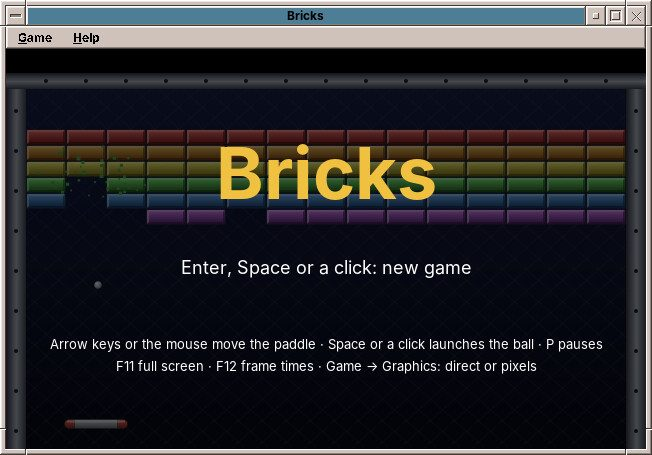
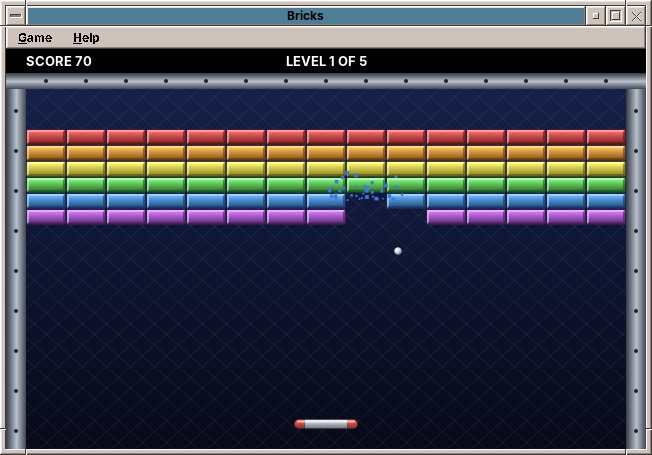
www.amadeos.eu: in-game screenshots for the games, System page
The Games page shows the screenshots of the games' AppStream metadata,
taken during play, instead of the title screens. The new page System
describes what amadeos-system adds to Debian: the desktop packages, every
Settings page, the dialogs of the system and the JNA bindings.

Claude-Session: https://claude.ai/code/session_0189sjNqWnc8okgJQiVfxjrz

diff --git a/www.amadeos.eu/system.html b/www.amadeos.eu/system.html
@@ -1,0 +1,165 @@
+<!doctype html>
+<html lang="en">
+<head>
+  <meta charset="utf-8">
+  <meta name="viewport" content="width=device-width, initial-scale=1">
+  <title>What amadeOS adds to Debian · amadeOS</title>
+  <meta name="description" content="amadeos-system: the display manager, session, window manager, Front Panel, Settings and system tools that amadeOS adds on top of Debian, and how Java talks to Linux and X11 through JNA.">
+  <link rel="icon" href="/assets/images/logo.svg" type="image/svg+xml">
+  <link rel="stylesheet" href="/assets/css/amadeos.css">
+</head>
+<body>
+  <div class="htmx-fragment" hx-get="/includes/header.html" hx-trigger="load" hx-swap="outerHTML">
+    <noscript><a href="/index.html">amadeOS</a> · <a href="/why.html">Why</a> · <a href="/desktop.html">Desktop</a> · <a href="/system.html">System</a> · <a href="/applications.html">Applications</a> · <a href="/games.html">Games</a> · <a href="/download.html">Download</a> · <a href="/handbooks.html">Handbooks</a> · <a href="/contribute.html">Take part</a></noscript>
+  </div>
+<main>
+<div class="page-head"><div class="wrap"><h1>What amadeOS adds to Debian</h1><p>Debian brings the kernel, the drivers, the X server, systemd and thousands of programs. amadeOS adds the desktop on top: ten packages from the repository amadeos-system, all written in Java.</p></div></div>
+<section>
+  <div class="wrap">
+    <h2>Debian underneath, amadeOS on top</h2>
+    <p class="intro">amadeOS does not replace any part of Debian. Its packages are ordinary Debian packages that use
+      Debian's services: PAM to log in, logind for the session, polkit for administrator rights, NetworkManager, CUPS
+      and apt.</p>
+    <div class="two">
+      <div>
+        <h3>From Debian 13</h3>
+        <table>
+          <tr><td>Linux kernel, firmware and drivers</td></tr>
+          <tr><td>Xorg (X11), Mesa, fonts</td></tr>
+          <tr><td>systemd, logind, PAM, polkit</td></tr>
+          <tr><td>NetworkManager, CUPS, PipeWire</td></tr>
+          <tr><td>apt, dpkg, AppStream, unattended-upgrades</td></tr>
+          <tr><td>OpenJDK 25, GRUB, live-boot</td></tr>
+          <tr><td>Firefox ESR, LibreOffice and the whole Debian archive</td></tr>
+        </table>
+      </div>
+      <div>
+        <h3>From amadeos-system</h3>
+        <table>
+          <tr><th>Package</th><th>What it is</th></tr>
+          <tr><td><code>amadeos-dm</code></td><td>Display manager and login screen</td></tr>
+          <tr><td><code>amadeos-session</code></td><td>Session, screen lock, screen saver, polkit agent, clipboard manager</td></tr>
+          <tr><td><code>amadeos-wm</code></td><td>Window manager with Motif frames and four workspaces</td></tr>
+          <tr><td><code>amadeos-panel-cde</code></td><td>The Front Panel with its drawers</td></tr>
+          <tr><td><code>amadeos-settings</code></td><td>Settings, formerly the Style Manager</td></tr>
+          <tr><td><code>amadeos-software</code></td><td>Software: install, update and remove programs</td></tr>
+          <tr><td><code>amadeos-packages</code></td><td>The administrator helper behind updates and Software</td></tr>
+          <tr><td><code>amadeos-print</code></td><td>Print Manager</td></tr>
+          <tr><td><code>amadeos-logviewer</code></td><td>Session Diagnostics &amp; Logs</td></tr>
+          <tr><td><code>amadeos-sysinfo</code></td><td>System Information</td></tr>
+        </table>
+      </div>
+    </div>
+  </div>
+</section>
+
+<section class="alt">
+  <div class="wrap">
+    <h2>From power-on to the desktop</h2>
+    <div class="cards">
+      <div class="card bevel"><h3>Display manager</h3><p>A systemd service starts Xorg and the login screen. It
+        checks the password through PAM in a separate root process, opens a logind session and starts the desktop
+        as the user, in the language, keyboard layout and time zone chosen on the login screen.</p></div>
+      <div class="card bevel"><h3>Session</h3><p>Starts the window manager and restarts it if it fails, runs the
+        start-up scripts and your own programs, then the Front Panel. Programs started from the panel each write a
+        log of their own.</p></div>
+      <div class="card bevel"><h3>Window manager</h3><p>A floating, reparenting X11 window manager: Motif frames with
+        the CDE window menu, move and resize, minimise to desktop icons, four workspaces, the workspace menu, and the
+        ICCCM and EWMH standards, so programs not written in Java work as well.</p></div>
+      <div class="card bevel"><h3>Front Panel</h3><p>Clock, calendar, workspace switch, lock and language buttons,
+        network and updates cells, and drawers that fill themselves from the installed programs' desktop entries
+        and follow every install.</p></div>
+      <div class="card bevel"><h3>Lock and screen saver</h3><p>The screen saver uses the X server's idle time, shows a
+        module (Qix, Swarm, Starfield, Floating Logo) and locks the screen. The lock grabs keyboard and mouse and
+        asks for the password through PAM.</p></div>
+      <div class="card bevel"><h3>Clipboard manager</h3><p>Keeps a history of what you copied, in memory only, and
+        keeps a copy alive when the program that made it closes. Copies that a password manager marks as secret are
+        left out.</p></div>
+    </div>
+  </div>
+</section>
+
+<section>
+  <div class="wrap">
+    <h2>All settings in one place</h2>
+    <p class="intro">Settings shows every control in a sidebar with a search field, or, under View &gt; Compact, as
+      CDE's row of buttons with a dialog each. Changes apply at once: the window manager, the panel and every amade
+      application follow the files in <code>~/.config/amadeos/</code>.</p>
+    <div class="settings-grid">
+      <figure><div class="window bevel"><img src="/assets/images/settings.jpg" alt="Settings: Color" loading="lazy"></div><figcaption><strong>Color</strong>: Palettes from CDE and new ones, with the four workspace colours, and the icon theme.</figcaption></figure>
+      <figure><div class="window bevel"><img src="/assets/images/settings-font.jpg" alt="Settings: Font" loading="lazy"></div><figcaption><strong>Font</strong>: CDE's sizes 1 to 7, followed by the panel, the window frames and every amade application.</figcaption></figure>
+      <figure><div class="window bevel"><img src="/assets/images/settings-backdrop.jpg" alt="Settings: Backdrop" loading="lazy"></div><figcaption><strong>Backdrop</strong>: CDE's pattern backdrops in the palette's shades, or your own pictures, per workspace.</figcaption></figure>
+      <figure><div class="window bevel"><img src="/assets/images/settings-workspaces.jpg" alt="Settings: Workspaces" loading="lazy"></div><figcaption><strong>Workspaces</strong>: Names of the four workspaces.</figcaption></figure>
+      <figure><div class="window bevel"><img src="/assets/images/settings-panel.jpg" alt="Settings: Front Panel" loading="lazy"></div><figcaption><strong>Front Panel</strong>: Analog or digital clock, network and updates cells.</figcaption></figure>
+      <figure><div class="window bevel"><img src="/assets/images/settings-keyboard.jpg" alt="Settings: Keyboard" loading="lazy"></div><figcaption><strong>Keyboard</strong>: Key repeat and key click.</figcaption></figure>
+      <figure><div class="window bevel"><img src="/assets/images/settings-mouse.jpg" alt="Settings: Mouse" loading="lazy"></div><figcaption><strong>Mouse</strong>: Left- or right-handed, double-click time and acceleration.</figcaption></figure>
+      <figure><div class="window bevel"><img src="/assets/images/settings-beep.jpg" alt="Settings: Beep" loading="lazy"></div><figcaption><strong>Beep</strong>: Volume, pitch and length of the bell, played through the sound card.</figcaption></figure>
+      <figure><div class="window bevel"><img src="/assets/images/settings-display.jpg" alt="Settings: Display" loading="lazy"></div><figcaption><strong>Display</strong>: Resolution, refresh rate, rotation and arrangement of each monitor.</figcaption></figure>
+      <figure><div class="window bevel"><img src="/assets/images/settings-screen.jpg" alt="Settings: Screen" loading="lazy"></div><figcaption><strong>Screen</strong>: Screen saver modules and when the screen locks.</figcaption></figure>
+      <figure><div class="window bevel"><img src="/assets/images/settings-window.jpg" alt="Settings: Window" loading="lazy"></div><figcaption><strong>Window</strong>: Click or point to focus, raise when active, show contents while moving.</figcaption></figure>
+      <figure><div class="window bevel"><img src="/assets/images/settings-clipboard.jpg" alt="Settings: Clipboard" loading="lazy"></div><figcaption><strong>Clipboard</strong>: Size of the clipboard history, and whether selected text is recorded.</figcaption></figure>
+      <figure><div class="window bevel"><img src="/assets/images/settings-startup.jpg" alt="Settings: Startup" loading="lazy"></div><figcaption><strong>Startup</strong>: Your own programs at login, and the desktop services that start with the session.</figcaption></figure>
+      <figure><div class="window bevel"><img src="/assets/images/settings-passwords.jpg" alt="Settings: Passwords" loading="lazy"></div><figcaption><strong>Passwords</strong>: Lock, unlock and change the password of the login keyring.</figcaption></figure>
+      <figure><div class="window bevel"><img src="/assets/images/settings-updates.jpg" alt="Settings: Updates" loading="lazy"></div><figcaption><strong>Updates</strong>: Automatic security updates and the updates waiting.</figcaption></figure>
+      <figure><div class="window bevel"><img src="/assets/images/settings-language.jpg" alt="Settings: Language" loading="lazy"></div><figcaption><strong>Language</strong>: Desktop language and the system's time zone.</figcaption></figure>
+    </div>
+  </div>
+</section>
+
+<section class="alt">
+  <div class="wrap">
+    <h2>Dialogs of the system</h2>
+    <p class="intro">Where the system needs you, it asks in a window of the desktop, in your language and colours.</p>
+    <div class="settings-grid">
+      <figure><div class="window bevel"><img src="/assets/images/login-screen.jpg" alt="The login screen" loading="lazy"></div><figcaption><strong>Login</strong>: user, password, language, keyboard layout, time zone, restart and shut down.</figcaption></figure>
+      <figure><div class="window bevel"><img src="/assets/images/lock-screen.jpg" alt="The screen lock" loading="lazy"></div><figcaption><strong>Screen lock</strong>: Super+L, the lock button or the screen saver; the password unlocks.</figcaption></figure>
+      <figure><div class="window bevel"><img src="/assets/images/password-window.jpg" alt="The administrator password dialog" loading="lazy"></div><figcaption><strong>Administrator password</strong>: amadeOS's own polkit agent, for example when Software installs a program.</figcaption></figure>
+      <figure><div class="window bevel"><img src="/assets/images/display-keep.jpg" alt="Keep these display settings?" loading="lazy"></div><figcaption><strong>Keep these settings?</strong> A new resolution goes back by itself after 15 seconds unless you keep it.</figcaption></figure>
+      <figure><div class="window bevel"><img src="/assets/images/clipboard-history.jpg" alt="The clipboard history" loading="lazy"></div><figcaption><strong>Clipboard history</strong>: Ctrl+Alt+V, then Enter or 1 to 9 to paste an earlier copy.</figcaption></figure>
+      <figure><div class="window bevel"><img src="/assets/images/software.jpg" alt="Software" loading="lazy"></div><figcaption><strong>Software and updates</strong>: the updates cell of the panel shows waiting updates, security updates in red.</figcaption></figure>
+      <figure><div class="window bevel"><img src="/assets/images/print-manager.jpg" alt="Print Manager" loading="lazy"></div><figcaption><strong>Print Manager</strong>: printers and their jobs, spoken to CUPS directly over IPP.</figcaption></figure>
+      <figure><div class="window bevel"><img src="/assets/images/session-logs.jpg" alt="Session Diagnostics and Logs" loading="lazy"></div><figcaption><strong>Session Diagnostics &amp; Logs</strong>: every program's log and the system journal, one at a time.</figcaption></figure>
+      <figure><div class="window bevel"><img src="/assets/images/system-information.jpg" alt="System Information" loading="lazy"></div><figcaption><strong>System Information</strong>: processor, memory, disks, graphics, network and battery on one page.</figcaption></figure>
+    </div>
+  </div>
+</section>
+
+<section>
+  <div class="wrap">
+    <h2>How Java talks to Linux: JNA</h2>
+    <p class="intro">Java cannot speak to the X server or to PAM on its own. amadeOS uses
+      <a href="https://github.com/java-native-access/jna">JNA</a> (Java Native Access) for that: Java interfaces
+      that name the C functions of a system library, which JNA calls at run time. There is no C code to compile, so
+      every amadeOS package is the same for every processor (<code>Architecture: all</code>), and the whole binding
+      is readable Java in the module <code>base</code> of amadeos-system.</p>
+    <table>
+      <tr><th>Library</th><th>Debian package</th><th>Used for</th></tr>
+      <tr><td><code>libX11</code> (Xlib)</td><td>libx11-6</td><td>The window manager: about a hundred Xlib calls for events, reparenting frames,
+        window properties (ICCCM, EWMH), focus, key and pointer grabs, selections and drawing. The lock and the
+        panel use it too.</td></tr>
+      <tr><td>XKB (in libX11)</td><td>libx11-6</td><td>The bell: the window manager turns the PC-speaker bell off and plays the tone through
+        the sound card instead.</td></tr>
+      <tr><td><code>libXfixes</code></td><td>libxfixes3</td><td>The clipboard manager: the X server reports every new owner of the clipboard.</td></tr>
+      <tr><td><code>libXss</code></td><td>libxss1</td><td>The screen saver: the X server's idle time since the last key or mouse input.</td></tr>
+      <tr><td><code>libpam</code></td><td>libpam0g</td><td>Login screen and screen lock: check the password, open and close the session,
+        set up its environment (and with it the login keyring).</td></tr>
+      <tr><td><code>libc</code></td><td>libc6</td><td>The display manager: switch to the user (setuid, setgid, initgroups) before starting
+        the session, and memory for PAM's conversation.</td></tr>
+    </table>
+    <h3 style="margin-top:28px">And where a program does the job better</h3>
+    <p>Not everything needs a native call. amadeOS uses Debian's own tools where they exist:
+      <code>nmcli</code> for the network, <code>xrandr</code> for monitors, <code>xset</code> and
+      <code>xmodmap</code> for keyboard and mouse, <code>timedatectl</code> for the time zone, apt through a small
+      root helper started with <code>pkexec</code>, and IPP spoken directly to CUPS. The handbooks explain each one:
+      <a href="https://datazuul.github.io/amadeos/">Part VII of the User's Handbook</a> and
+      <a href="https://datazuul.github.io/amade-commons/">Part VI of the Application Developer's Handbook</a>.</p>
+  </div>
+</section>
+</main>
+  <div class="htmx-fragment" hx-get="/includes/footer.html" hx-trigger="load" hx-swap="outerHTML">
+    <noscript><a href="/imprint.html">Imprint</a> · <a href="/privacy.html">Privacy</a></noscript>
+  </div>
+  <script src="/assets/js/htmx.min.js"></script>
+  <script src="/assets/js/site.js"></script>
+</body>
+</html>

diff --git a/www.amadeos.eu/desktop.html b/www.amadeos.eu/desktop.html
@@ -10,7 +10,7 @@
 </head>
 <body>
   <div class="htmx-fragment" hx-get="/includes/header.html" hx-trigger="load" hx-swap="outerHTML">
-    <noscript><a href="/index.html">amadeOS</a> · <a href="/why.html">Why</a> · <a href="/desktop.html">Desktop</a> · <a href="/applications.html">Applications</a> · <a href="/games.html">Games</a> · <a href="/download.html">Download</a> · <a href="/handbooks.html">Handbooks</a> · <a href="/contribute.html">Take part</a></noscript>
+    <noscript><a href="/index.html">amadeOS</a> · <a href="/why.html">Why</a> · <a href="/desktop.html">Desktop</a> · <a href="/system.html">System</a> · <a href="/applications.html">Applications</a> · <a href="/games.html">Games</a> · <a href="/download.html">Download</a> · <a href="/handbooks.html">Handbooks</a> · <a href="/contribute.html">Take part</a></noscript>
   </div>
 <main>
 <div class="page-head"><div class="wrap"><h1>A classic desktop, made new</h1><p>The amadeOS desktop follows the Common Desktop Environment of the 1990s: a Front Panel with drawers, four named workspaces, Motif window frames and one place for all settings. Its display manager, window manager, panel and settings are new programs in Java.</p></div></div>
@@ -56,7 +56,7 @@
     <p>The desktop consists of a few Debian packages: the display manager with the login screen, the session with screen
       lock and screen saver, a reparenting X11 window manager, the Front Panel and Settings. The window manager speaks
       the ICCCM and EWMH standards, so programs that are not written in Java work as well. Part VII of the
-      <a href="https://datazuul.github.io/amadeos/">User's Handbook</a> explains how it all fits together.</p>
+      <a href="https://datazuul.github.io/amadeos/">User's Handbook</a> explains how it all fits together, and <a href="/system.html">What amadeOS adds to Debian</a> gives an overview.</p>
   </div>
 </section>
 </main>

diff --git a/www.amadeos.eu/assets/css/amadeos.css b/www.amadeos.eu/assets/css/amadeos.css
@@ -94,6 +94,7 @@ pre { background: #2b2420; color: #f0ece8; padding: 14px 16px; overflow-x: auto;
 table { border-collapse: collapse; width: 100%; font-size: .95rem; }
 th, td { text-align: left; padding: 6px 10px; border-bottom: 1px solid #d4cbc2; vertical-align: top; }
 th { background: var(--warm); }
+td code { white-space: nowrap; }
 
 .books { display: grid; grid-template-columns: repeat(auto-fit, minmax(280px, 1fr)); gap: 18px; }
 .book { background: var(--warm-light); padding: 20px; display: flex; flex-direction: column; }
@@ -133,9 +134,11 @@ nav.main a.active { background: #d4cbc2; border-color: var(--warm-dark) var(--wa
 .teaser:hover h3 { text-decoration: underline; }
 .game-list { display: grid; grid-template-columns: repeat(auto-fill, minmax(320px, 1fr)); gap: 18px; }
 .game-card { background: var(--warm-light); padding: 6px; }
-.game-card img { width: 100%; aspect-ratio: 8 / 5; object-fit: cover; background: #1d1d1d; }
+.game-card img { width: 100%; aspect-ratio: 8 / 5; object-fit: contain; background: #2b2420; }
 .game-card .text { padding: 10px 6px 6px; }
 .game-card p { margin: 0; font-size: .92rem; color: #4a413b; }
 .prose > * { max-width: 760px; }
 .prose h2 { margin-top: 32px; font-size: 1.4rem; }
 .prose h3 { margin-top: 20px; }
+.settings-grid { display: grid; grid-template-columns: repeat(auto-fill, minmax(min(100%, 320px), 1fr)); gap: 20px; }
+.settings-grid .window img { width: 100%; }

diff --git a/www.amadeos.eu/applications.html b/www.amadeos.eu/applications.html
@@ -10,7 +10,7 @@
 </head>
 <body>
   <div class="htmx-fragment" hx-get="/includes/header.html" hx-trigger="load" hx-swap="outerHTML">
-    <noscript><a href="/index.html">amadeOS</a> · <a href="/why.html">Why</a> · <a href="/desktop.html">Desktop</a> · <a href="/applications.html">Applications</a> · <a href="/games.html">Games</a> · <a href="/download.html">Download</a> · <a href="/handbooks.html">Handbooks</a> · <a href="/contribute.html">Take part</a></noscript>
+    <noscript><a href="/index.html">amadeOS</a> · <a href="/why.html">Why</a> · <a href="/desktop.html">Desktop</a> · <a href="/system.html">System</a> · <a href="/applications.html">Applications</a> · <a href="/games.html">Games</a> · <a href="/download.html">Download</a> · <a href="/handbooks.html">Handbooks</a> · <a href="/contribute.html">Take part</a></noscript>
   </div>
 <main>
 <div class="page-head"><div class="wrap"><h1>Applications for every day</h1><p>amadeOS brings its own applications, all written in Java and all following the desktop's colours, fonts and language. LibreOffice and Firefox are there for everything else.</p></div></div>

diff --git a/www.amadeos.eu/download.html b/www.amadeos.eu/download.html
@@ -10,7 +10,7 @@
 </head>
 <body>
   <div class="htmx-fragment" hx-get="/includes/header.html" hx-trigger="load" hx-swap="outerHTML">
-    <noscript><a href="/index.html">amadeOS</a> · <a href="/why.html">Why</a> · <a href="/desktop.html">Desktop</a> · <a href="/applications.html">Applications</a> · <a href="/games.html">Games</a> · <a href="/download.html">Download</a> · <a href="/handbooks.html">Handbooks</a> · <a href="/contribute.html">Take part</a></noscript>
+    <noscript><a href="/index.html">amadeOS</a> · <a href="/why.html">Why</a> · <a href="/desktop.html">Desktop</a> · <a href="/system.html">System</a> · <a href="/applications.html">Applications</a> · <a href="/games.html">Games</a> · <a href="/download.html">Download</a> · <a href="/handbooks.html">Handbooks</a> · <a href="/contribute.html">Take part</a></noscript>
   </div>
 <main>
 <div class="page-head"><div class="wrap"><h1>Get amadeOS</h1><p>amadeOS comes as one image file for a USB stick. It starts as a live system that changes nothing on your computer, and installs onto the disk from there, on its own or next to Windows.</p></div></div>

diff --git a/www.amadeos.eu/why.html b/www.amadeos.eu/why.html
@@ -10,7 +10,7 @@
 </head>
 <body>
   <div class="htmx-fragment" hx-get="/includes/header.html" hx-trigger="load" hx-swap="outerHTML">
-    <noscript><a href="/index.html">amadeOS</a> · <a href="/why.html">Why</a> · <a href="/desktop.html">Desktop</a> · <a href="/applications.html">Applications</a> · <a href="/games.html">Games</a> · <a href="/download.html">Download</a> · <a href="/handbooks.html">Handbooks</a> · <a href="/contribute.html">Take part</a></noscript>
+    <noscript><a href="/index.html">amadeOS</a> · <a href="/why.html">Why</a> · <a href="/desktop.html">Desktop</a> · <a href="/system.html">System</a> · <a href="/applications.html">Applications</a> · <a href="/games.html">Games</a> · <a href="/download.html">Download</a> · <a href="/handbooks.html">Handbooks</a> · <a href="/contribute.html">Take part</a></noscript>
   </div>
 <main>
 <div class="page-head"><div class="wrap"><h1>Why amadeOS</h1><p>Your computer should work for you, not for the company that made its software. amadeOS is built so that you can see, understand and keep everything it does.</p></div></div>

diff --git a/www.amadeos.eu/games.html b/www.amadeos.eu/games.html
@@ -10,7 +10,7 @@
 </head>
 <body>
   <div class="htmx-fragment" hx-get="/includes/header.html" hx-trigger="load" hx-swap="outerHTML">
-    <noscript><a href="/index.html">amadeOS</a> · <a href="/why.html">Why</a> · <a href="/desktop.html">Desktop</a> · <a href="/applications.html">Applications</a> · <a href="/games.html">Games</a> · <a href="/download.html">Download</a> · <a href="/handbooks.html">Handbooks</a> · <a href="/contribute.html">Take part</a></noscript>
+    <noscript><a href="/index.html">amadeOS</a> · <a href="/why.html">Why</a> · <a href="/desktop.html">Desktop</a> · <a href="/system.html">System</a> · <a href="/applications.html">Applications</a> · <a href="/games.html">Games</a> · <a href="/download.html">Download</a> · <a href="/handbooks.html">Handbooks</a> · <a href="/contribute.html">Take part</a></noscript>
   </div>
 <main>
 <div class="page-head"><div class="wrap"><h1>Fifteen games, ready to play</h1><p>From Mines and Solitaire through arcade classics to strategy and city building, all drawn anew and all included in amadeOS.</p></div></div>

diff --git a/www.amadeos.eu/handbooks.html b/www.amadeos.eu/handbooks.html
@@ -10,7 +10,7 @@
 </head>
 <body>
   <div class="htmx-fragment" hx-get="/includes/header.html" hx-trigger="load" hx-swap="outerHTML">
-    <noscript><a href="/index.html">amadeOS</a> · <a href="/why.html">Why</a> · <a href="/desktop.html">Desktop</a> · <a href="/applications.html">Applications</a> · <a href="/games.html">Games</a> · <a href="/download.html">Download</a> · <a href="/handbooks.html">Handbooks</a> · <a href="/contribute.html">Take part</a></noscript>
+    <noscript><a href="/index.html">amadeOS</a> · <a href="/why.html">Why</a> · <a href="/desktop.html">Desktop</a> · <a href="/system.html">System</a> · <a href="/applications.html">Applications</a> · <a href="/games.html">Games</a> · <a href="/download.html">Download</a> · <a href="/handbooks.html">Handbooks</a> · <a href="/contribute.html">Take part</a></noscript>
   </div>
 <main>
 <div class="page-head"><div class="wrap"><h1>Three handbooks</h1><p>amadeOS is documented as books, online and installed on every amadeOS computer, where the Help drawer of the Front Panel opens them.</p></div></div>

diff --git a/www.amadeos.eu/contribute.html b/www.amadeos.eu/contribute.html
@@ -10,7 +10,7 @@
 </head>
 <body>
   <div class="htmx-fragment" hx-get="/includes/header.html" hx-trigger="load" hx-swap="outerHTML">
-    <noscript><a href="/index.html">amadeOS</a> · <a href="/why.html">Why</a> · <a href="/desktop.html">Desktop</a> · <a href="/applications.html">Applications</a> · <a href="/games.html">Games</a> · <a href="/download.html">Download</a> · <a href="/handbooks.html">Handbooks</a> · <a href="/contribute.html">Take part</a></noscript>
+    <noscript><a href="/index.html">amadeOS</a> · <a href="/why.html">Why</a> · <a href="/desktop.html">Desktop</a> · <a href="/system.html">System</a> · <a href="/applications.html">Applications</a> · <a href="/games.html">Games</a> · <a href="/download.html">Download</a> · <a href="/handbooks.html">Handbooks</a> · <a href="/contribute.html">Take part</a></noscript>
   </div>
 <main>
 <div class="page-head"><div class="wrap"><h1>Take part</h1><p>amadeOS is developed in the open on GitHub. Try it, report what does not work, translate it, or write a program for it.</p></div></div>

diff --git a/www.amadeos.eu/privacy.html b/www.amadeos.eu/privacy.html
@@ -10,7 +10,7 @@
 </head>
 <body>
   <div class="htmx-fragment" hx-get="/includes/header.html" hx-trigger="load" hx-swap="outerHTML">
-    <noscript><a href="/index.html">amadeOS</a> · <a href="/why.html">Why</a> · <a href="/desktop.html">Desktop</a> · <a href="/applications.html">Applications</a> · <a href="/games.html">Games</a> · <a href="/download.html">Download</a> · <a href="/handbooks.html">Handbooks</a> · <a href="/contribute.html">Take part</a></noscript>
+    <noscript><a href="/index.html">amadeOS</a> · <a href="/why.html">Why</a> · <a href="/desktop.html">Desktop</a> · <a href="/system.html">System</a> · <a href="/applications.html">Applications</a> · <a href="/games.html">Games</a> · <a href="/download.html">Download</a> · <a href="/handbooks.html">Handbooks</a> · <a href="/contribute.html">Take part</a></noscript>
   </div>
 <main>
 <div class="page-head"><div class="wrap"><h1>Privacy</h1><p>This website sets no cookies, uses no tracking and loads no fonts, scripts or pictures from other servers.</p></div></div>

diff --git a/www.amadeos.eu/imprint.html b/www.amadeos.eu/imprint.html
@@ -10,7 +10,7 @@
 </head>
 <body>
   <div class="htmx-fragment" hx-get="/includes/header.html" hx-trigger="load" hx-swap="outerHTML">
-    <noscript><a href="/index.html">amadeOS</a> · <a href="/why.html">Why</a> · <a href="/desktop.html">Desktop</a> · <a href="/applications.html">Applications</a> · <a href="/games.html">Games</a> · <a href="/download.html">Download</a> · <a href="/handbooks.html">Handbooks</a> · <a href="/contribute.html">Take part</a></noscript>
+    <noscript><a href="/index.html">amadeOS</a> · <a href="/why.html">Why</a> · <a href="/desktop.html">Desktop</a> · <a href="/system.html">System</a> · <a href="/applications.html">Applications</a> · <a href="/games.html">Games</a> · <a href="/download.html">Download</a> · <a href="/handbooks.html">Handbooks</a> · <a href="/contribute.html">Take part</a></noscript>
   </div>
 <main>
 <div class="page-head"><div class="wrap"><h1>Imprint</h1><p>Information according to § 5 DDG.</p></div></div>

diff --git a/www.amadeos.eu/index.html b/www.amadeos.eu/index.html
@@ -10,7 +10,7 @@
 </head>
 <body>
   <div class="htmx-fragment" hx-get="/includes/header.html" hx-trigger="load" hx-swap="outerHTML">
-    <noscript><a href="/index.html">amadeOS</a> · <a href="/why.html">Why</a> · <a href="/desktop.html">Desktop</a> · <a href="/applications.html">Applications</a> · <a href="/games.html">Games</a> · <a href="/download.html">Download</a> · <a href="/handbooks.html">Handbooks</a> · <a href="/contribute.html">Take part</a></noscript>
+    <noscript><a href="/index.html">amadeOS</a> · <a href="/why.html">Why</a> · <a href="/desktop.html">Desktop</a> · <a href="/system.html">System</a> · <a href="/applications.html">Applications</a> · <a href="/games.html">Games</a> · <a href="/download.html">Download</a> · <a href="/handbooks.html">Handbooks</a> · <a href="/contribute.html">Take part</a></noscript>
   </div>
 <main>
 <div class="hero">
